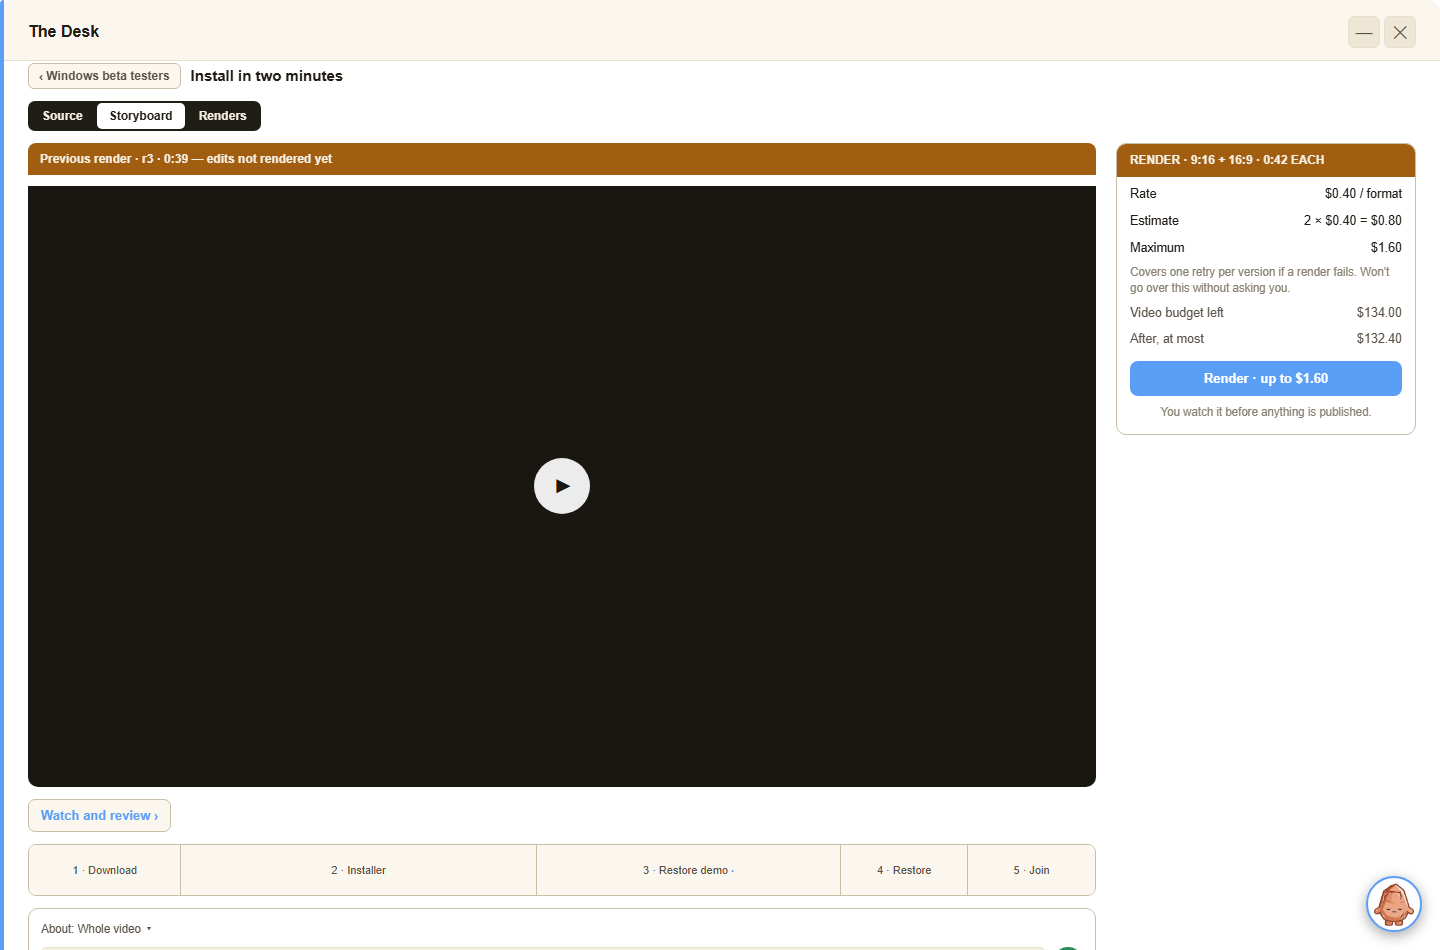
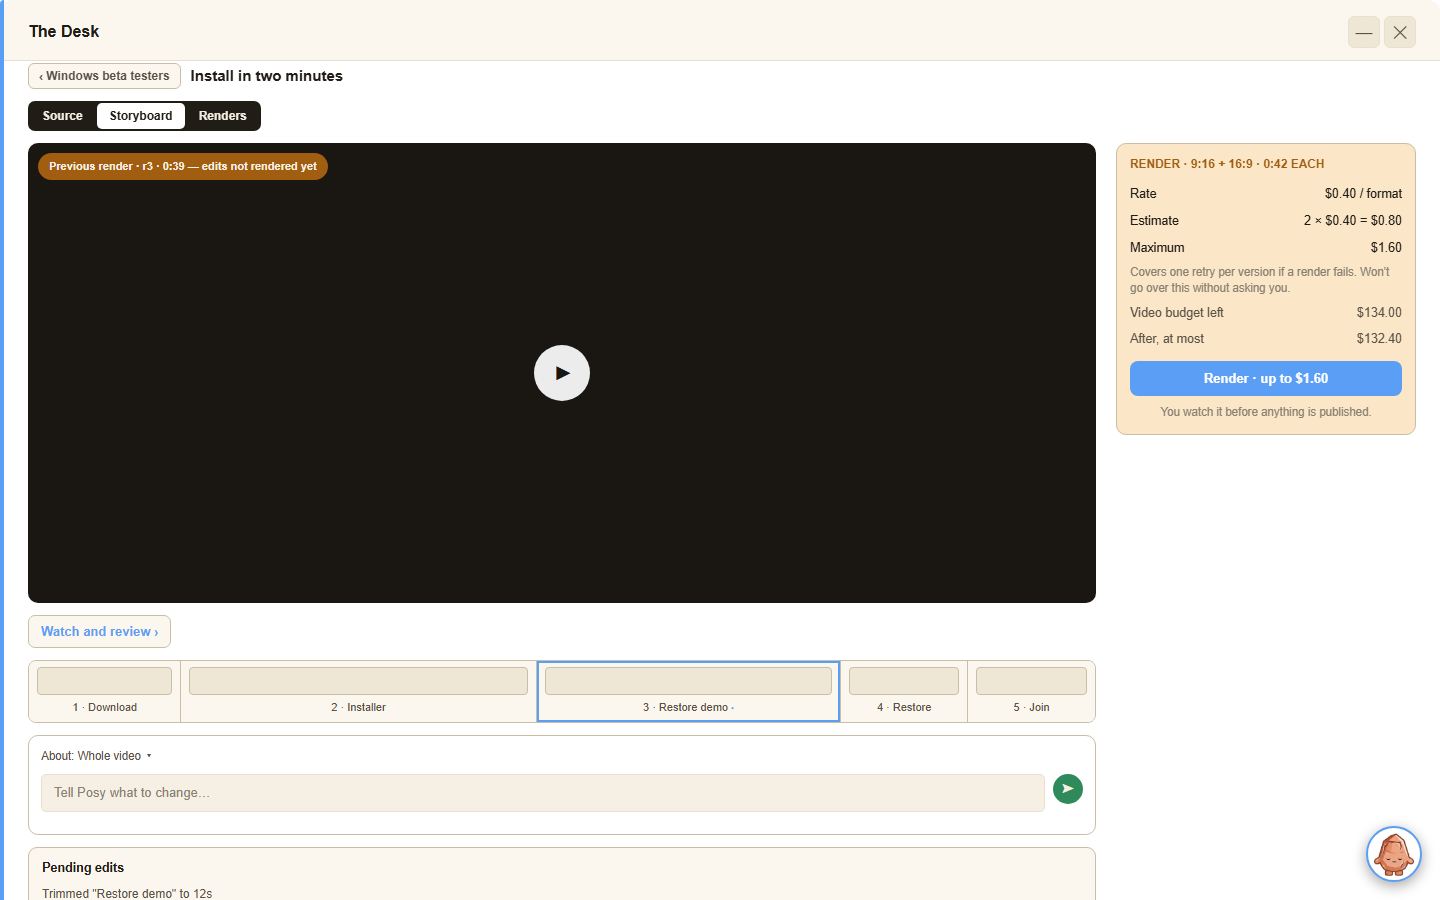
Desk v1 T5: fix 12d fidelity + phone overflow (Dave's review)
Five fixes against Dave's review of the director view (frame 12d):

1. Phone overflow (bug): .desk-v1-video-layout sets align-items: flex-start
   for desktop's row layout (top-aligns main/rail instead of stretching to
   equal height). The phone media query flips flex-direction to column but
   never reset align-items — with flex-direction: column the cross axis
   swaps to horizontal, so flex-start switched from "don't stretch height"
   to "don't stretch width," sizing main/rail to their own max-content width
   (~408px) inside a 336px column instead of the container's width. That's
   what rode the tabs/Posy box/scene strip/pending-edits card off the right
   edge. Fix: align-items: stretch in the same media query block. Added a
   smoke assertion (document.scrollWidth <= innerWidth) so a regression here
   fails loudly instead of only being visible in a screenshot.

2. Desktop player (~1068x600 at unconstrained 16:9) pushed the scene strip
   and Posy box below the fold at 1440x900. Capped .desk-v1-video-player at
   max-height: 460px — leaves badge+player+watchrow+strip+Posy all visible
   together, matching 12d; phone widths never hit the cap (16:9 at 390px is
   well under it).

3. Stale badge moved from a full-width bar above the player into the player
   itself as a small pill (position: absolute, top-left, border-radius:
   999px) — matches 12d's overlay treatment.

4. Render card background changed from --surface + solid amber header bar
[…]

diff --git a/static/css/desk-v1.css b/static/css/desk-v1.css
@@ -846,16 +846,22 @@
 .desk-v1-video-main { flex: 1 1 auto; min-width: 0; display: flex; flex-direction: column; gap: 12px; }
 .desk-v1-video-rail { flex: 0 0 300px; }
 
+/* 12d draws this as a small pill overlaid inside the player's top-left
+   corner, not a full-width bar above it — absolutely positioned against the
+   player's own `position: relative`. */
 .desk-v1-video-stalebadge {
-  background: var(--amber-text); color: var(--bg); border-radius: 8px 8px 0 0;
-  font-size: 12px; font-weight: 600; padding: 7px 12px; margin-bottom: -1px;
+  position: absolute; top: 10px; left: 10px; z-index: 1;
+  background: var(--amber-text); color: var(--bg); border-radius: 999px;
+  font-size: 11px; font-weight: 600; padding: 5px 11px;
 }
 
 .desk-v1-video-player {
   position: relative; background: #1a1712; border-radius: 10px; aspect-ratio: 16 / 9;
+  max-height: 460px; /* 12d keeps badge + strip + Posy in the same view as the
+  cost card at 1440x900 — an unconstrained 16:9 at the main column's full
+  width (~1068px) is ~601px tall and pushes both below the fold. */
   display: flex; align-items: center; justify-content: center;
 }
-.desk-v1-video-stalebadge + .desk-v1-video-player { border-radius: 0 0 10px 10px; }
 .desk-v1-video-playicon {
   width: 56px; height: 56px; border-radius: 50%; background: rgba(255,255,255,0.92);
   color: #1a1712; font-size: 20px; display: flex; align-items: center; justify-content: center;
@@ -870,15 +876,24 @@
   border: 1px solid var(--border2); border-radius: 8px; overflow: hidden; background: var(--surface2);
 }
 .desk-v1-video-scene {
-  position: relative; display: flex; align-items: center; justify-content: center;
-  min-width: 60px; border-right: 1px solid var(--border2); background: var(--surface2);
-  font-size: 11px; color: var(--text-dim); text-align: center; padding: 4px 14px; cursor: grab;
+  position: relative; display: flex; flex-direction: column; align-items: stretch; justify-content: center;
+  gap: 4px; min-width: 60px; border-right: 1px solid var(--border2); background: var(--surface2);
+  font-size: 11px; color: var(--text-dim); text-align: center; padding: 6px 8px; cursor: grab;
 }
 .desk-v1-video-scene:last-child { border-right: none; }
 .desk-v1-video-scene:hover, .desk-v1-video-scene:focus { background: var(--surface3); outline: none; }
 .desk-v1-video-scene-target { background: var(--accent-dim); }
 .desk-v1-video-scene-dragging { opacity: 0.4; }
 .desk-v1-video-scene-dot { color: var(--accent); font-size: 8px; }
+/* Empty placeholder box, never a fabricated preview (U11) — 12d shows a
+   thumbnail-shaped slot above each label, not a real frame. */
+.desk-v1-video-scene-thumb {
+  flex: 1 1 auto; min-height: 28px; border-radius: 4px;
+  background: var(--surface3); border: 1px solid var(--border2);
+}
+/* 12d outlines the just-edited scene in accent (fixture's edited:true scene
+   is the one the frame's caption calls "3 · trimmed"). */
+.desk-v1-video-scene-edited { box-shadow: inset 0 0 0 2px var(--accent); }
 .desk-v1-video-scene-edge {
   position: absolute; top: 0; bottom: 0; width: 8px; cursor: ew-resize; touch-action: none;
 }
@@ -924,13 +939,16 @@
 .desk-v1-video-jobrow[data-job-status="ready"] .desk-v1-video-jobglyph { color: var(--green-text); }
 
 /* Render card (rail) — same box shape as T3's rail cards (desk-v1-review-notice
-   et al.), with its own orange "what this costs" header strip (frame 12d). */
+   et al.), but 12d gives it its own light warm-tint body (var(--amber-dim),
+   same token the rest of the app uses for a pale amber background) instead
+   of the neutral surface — the RENDER line reads as orange caps text on that
+   tint, not a solid header bar. */
 .desk-v1-video-rendercard {
-  border: 1px solid var(--border2); border-radius: 10px; background: var(--surface); overflow: hidden;
+  border: 1px solid var(--border2); border-radius: 10px; background: var(--amber-dim); overflow: hidden;
 }
 .desk-v1-video-rendercard-head {
-  background: var(--amber-text); color: var(--bg); font-size: 11.5px; font-weight: 700;
-  letter-spacing: 0.02em; text-transform: uppercase; padding: 8px 13px;
+  color: var(--amber-text); font-size: 11.5px; font-weight: 700;
+  letter-spacing: 0.02em; text-transform: uppercase; padding: 12px 13px 4px;
 }
 .desk-v1-video-renderrow {
   display: flex; justify-content: space-between; gap: 10px; font-size: 12.5px; color: var(--text);
@@ -948,7 +966,13 @@
 /* Phone (ground rule 7, §11): same stack-the-rail pattern as T3/T4 — the
    scene strip scrolls horizontally instead of shrinking every tile unreadably. */
 @media (max-width: 960px) {
-  .desk-v1-video-layout { flex-direction: column; }
+  /* align-items: flex-start (desktop) swaps its cross-axis from vertical to
+     horizontal once flex-direction flips to column here — left un-reset it
+     sizes main/rail to their own max-content width (fit-content) instead of
+     the container's, which is what let the whole layout ride off the right
+     edge of the phone viewport. Stretch is what desktop's stack-the-rail
+     siblings (T3/T4) already get implicitly (no align-items override there). */
+  .desk-v1-video-layout { flex-direction: column; align-items: stretch; }
   .desk-v1-video-rail { flex: 0 0 auto; width: 100%; }
   .desk-v1-video-scenestrip { overflow-x: auto; -webkit-overflow-scrolling: touch; }
   .desk-v1-video-scene { min-width: 76px; min-height: 44px; }

diff --git a/static/js/desk-v1-video.js b/static/js/desk-v1-video.js
@@ -303,7 +303,11 @@
     // "Channel exports" (§5) only appears once more than one export exists —
     // no export object exists anywhere in R0 fixtures, so that condition is
     // never true here; omitted rather than stubbed dead (see final report).
-    return `<div class="desk-v1-video-director">
+    // "desk-v1-video" (bare, no CSS rule of its own) is pre-existing contract:
+    // desk-v1-home.mjs's A12 deep-link check (written when this route was
+    // still a stub) waits on ".desk-v1-stub-title:has-text('Video'),
+    // .desk-v1-video" — dropping it silently broke that smoke on merge.
+    return `<div class="desk-v1-video-director desk-v1-video">
       <div class="desk-v1-video-tabstrip" role="tablist" aria-label="Source, storyboard or renders">
         ${VIDEO_TABS.map(([id, label]) => `<button type="button" data-video-tab="${id}" aria-pressed="${_st.tab === id}">${label}</button>`).join('')}
       </div>
@@ -354,8 +358,9 @@
       const pct = total ? (s.durationSec / total * 100) : (100 / Math.max(1, (detail.scenes || []).length));
       return `
         ${i > 0 ? `<button type="button" class="desk-v1-video-insertgap" data-insert-at="${i}" aria-label="Insert a scene here" title="Insert a scene here">+</button>` : ''}
-        <div class="desk-v1-video-scene" data-scene-id="${esc(s.id)}" style="flex-basis:${pct}%" tabindex="0">
+        <div class="desk-v1-video-scene${s.edited ? ' desk-v1-video-scene-edited' : ''}" data-scene-id="${esc(s.id)}" style="flex-basis:${pct}%" tabindex="0">
           <span class="desk-v1-video-scene-edge desk-v1-video-scene-edge-l" data-trim-edge="l" data-scene-id="${esc(s.id)}"></span>
+          <div class="desk-v1-video-scene-thumb" aria-hidden="true"></div>
           <span class="desk-v1-video-scene-label">${i + 1} &middot; ${esc(s.label)}${s.edited ? ' <span class="desk-v1-video-scene-dot">&#8226;</span>' : ''}</span>
           <span class="desk-v1-video-scene-edge desk-v1-video-scene-edge-r" data-trim-edge="r" data-scene-id="${esc(s.id)}"></span>
         </div>`;
@@ -376,8 +381,8 @@
     return `
       <div class="desk-v1-video-layout">
         <div class="desk-v1-video-main">
-          ${statusBadge}
           <div class="desk-v1-video-player">
+            ${statusBadge}
             <span class="desk-v1-video-playicon" aria-hidden="true">&#9658;</span>
           </div>
           <div class="desk-v1-video-watchrow">
